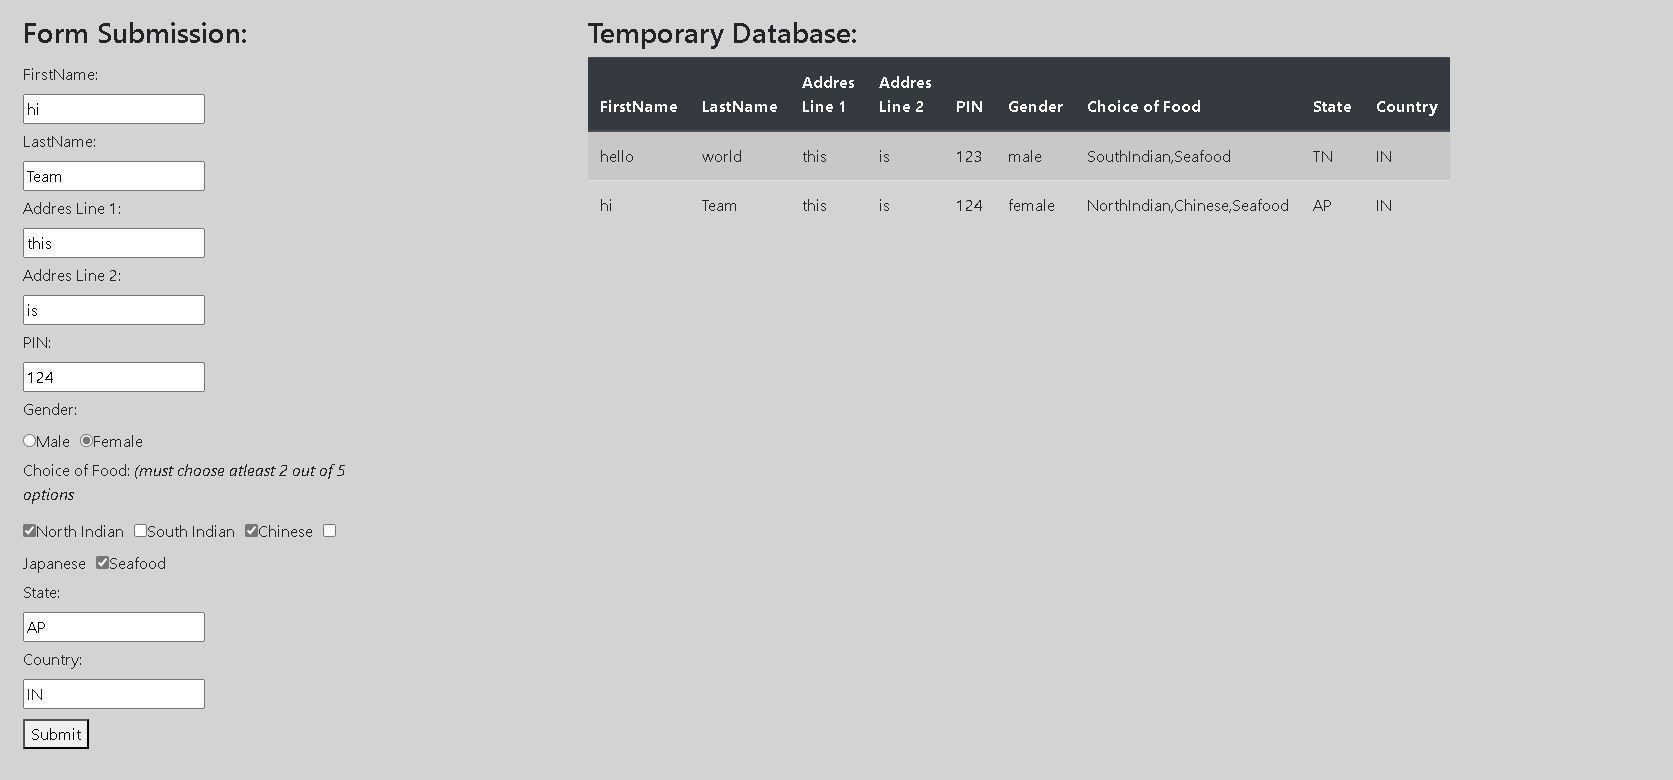
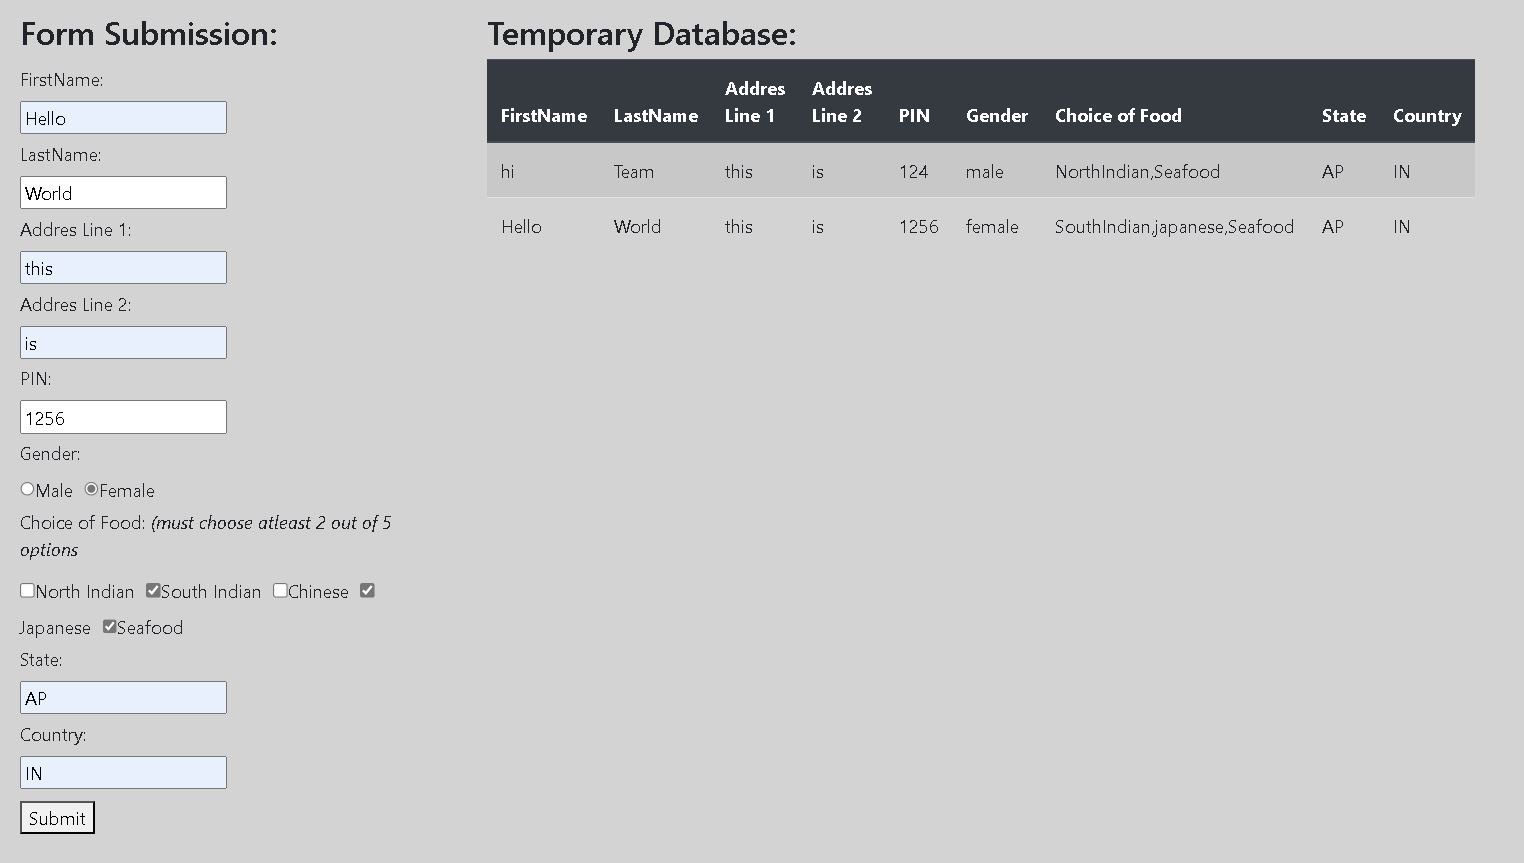
updating changes

diff --git a/script.js b/script.js
@@ -109,7 +109,7 @@ col_1.append(form1);
 //right side for table
 var col_2=document.createElement("div");
 col_2.className="col-8";
-col_2.setAttribute("style","padding-left:200px;"); // column 2 for table
+col_2.setAttribute("style","padding-left:50px;"); // column 2 for table
 
 var head2=document.createElement("h3");
 head2.innerHTML="Temporary Database:";

diff --git a/index.html b/index.html
@@ -8,6 +8,7 @@
     <link rel="stylesheet" href="style.css">
 </head>
 <body>
+    
     <script src="script.js"></script>
 </body>
 </html>

diff --git a/style.css b/style.css
@@ -2,6 +2,7 @@
     margin: 20px;
     width: auto;
 }
+
 body{
     background-color: lightgray;
 }
